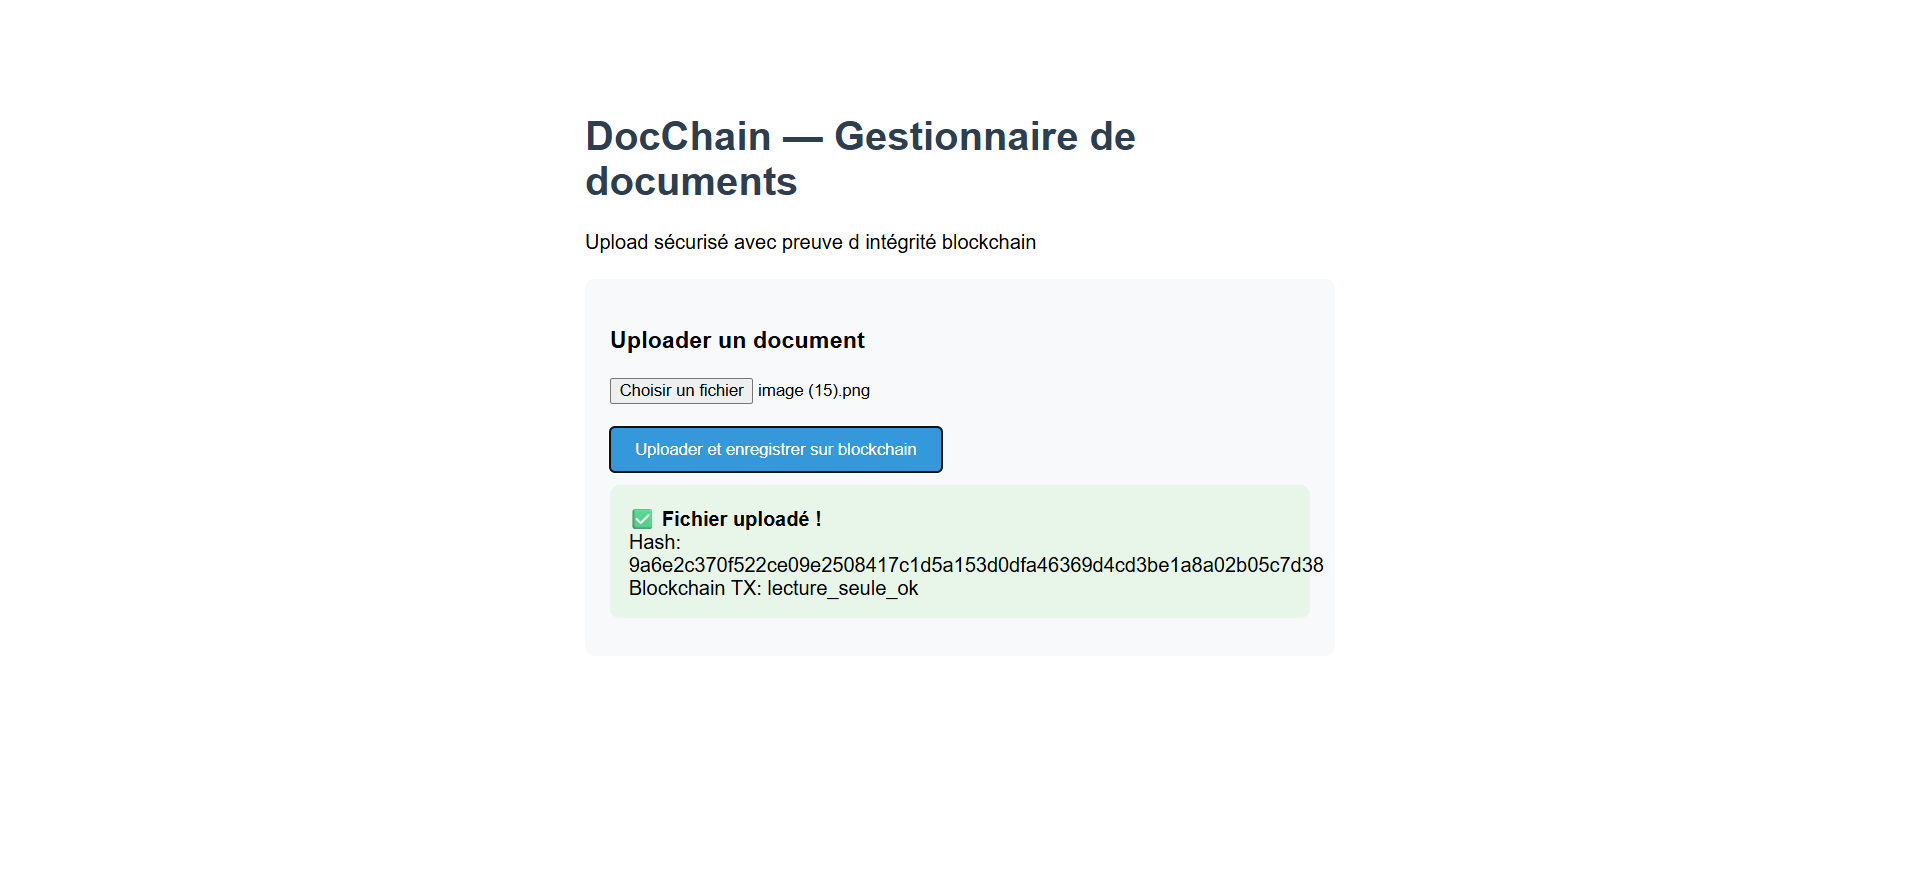
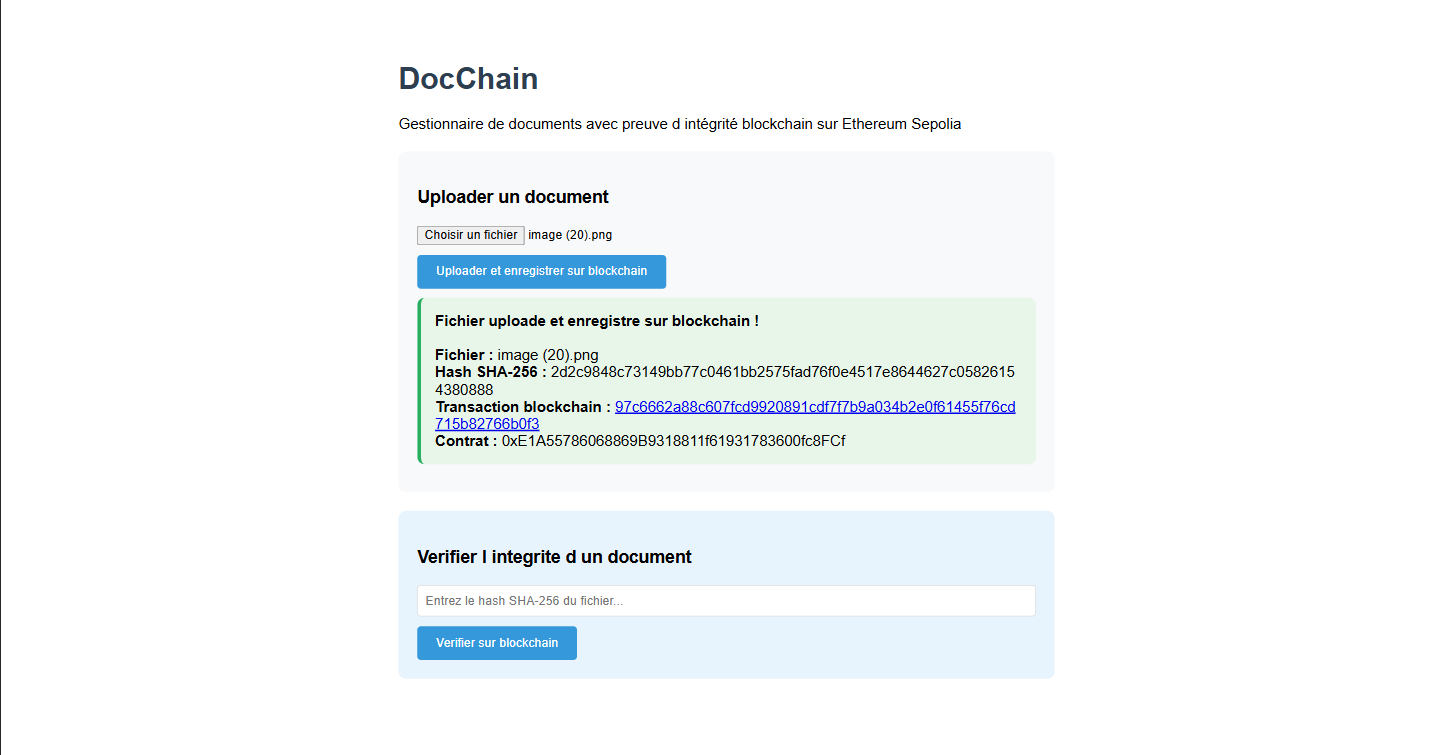
feat: vraie transaction blockchain registerDocument + verification integrite (C26)

Changed region(s): [[0.2787, 0.0914, 0.7123, 0.7007], [0.2787, 0.7921, 0.4336, 0.8834], [0.2787, 0.7311, 0.4955, 0.7616]]

diff --git a/app/app.py b/app/app.py
@@ -16,6 +16,7 @@ CONN_STR         = os.getenv('AZURE_STORAGE_CONNECTION_STRING')
 CONTAINER        = os.getenv('AZURE_CONTAINER_NAME', 'docchain')
 ALCHEMY_URL      = os.getenv('ALCHEMY_URL')
 CONTRACT_ADDRESS = os.getenv('CONTRACT_ADDRESS')
+PRIVATE_KEY      = os.getenv('WALLET_PRIVATE_KEY')
 
 w3 = Web3(Web3.HTTPProvider(ALCHEMY_URL))
 
@@ -26,47 +27,104 @@ contract = w3.eth.contract(
     abi=CONTRACT_ABI
 )
 
+def register_on_blockchain(file_hash: str, filename: str) -> str:
+    try:
+        bytes32_hash = bytes.fromhex(file_hash)
+        account      = w3.eth.account.from_key(PRIVATE_KEY)
+        nonce        = w3.eth.get_transaction_count(account.address)
+        tx = contract.functions.registerDocument(
+            bytes32_hash, filename
+        ).build_transaction({
+            'from'    : account.address,
+            'nonce'   : nonce,
+            'gas'     : 200000,
+            'gasPrice': w3.eth.gas_price,
+            'chainId' : 11155111
+        })
+        signed  = w3.eth.account.sign_transaction(tx, PRIVATE_KEY)
+        tx_hash = w3.eth.send_raw_transaction(signed.raw_transaction)
+        receipt = w3.eth.wait_for_transaction_receipt(tx_hash, timeout=60)
+        return tx_hash.hex()
+    except Exception as e:
+        print(f"Blockchain error: {e}")
+        return None
+
 HTML = '''
 <!DOCTYPE html>
 <html>
 <head>
     <title>DocChain</title>
     <style>
-        body { font-family: Arial, sans-serif; max-width: 600px; margin: 50px auto; padding: 20px; }
+        body { font-family: Arial, sans-serif; max-width: 700px; margin: 50px auto; padding: 20px; }
         h1 { color: #2c3e50; }
         .upload-form { background: #f8f9fa; padding: 20px; border-radius: 8px; margin: 20px 0; }
-        button { background: #3498db; color: white; padding: 10px 20px; border: none; border-radius: 4px; cursor: pointer; }
+        .verify-form { background: #e8f4fd; padding: 20px; border-radius: 8px; margin: 20px 0; }
+        button { background: #3498db; color: white; padding: 10px 20px; border: none; border-radius: 4px; cursor: pointer; margin-top: 10px; }
         button:hover { background: #2980b9; }
-        .result { background: #e8f5e9; padding: 15px; border-radius: 8px; margin: 10px 0; display: none; }
+        .result { padding: 15px; border-radius: 8px; margin: 10px 0; display: none; word-break: break-all; }
+        .success { background: #e8f5e9; border-left: 4px solid #27ae60; }
+        .error { background: #ffebee; border-left: 4px solid #e74c3c; }
+        input[type=text] { width: 100%; padding: 8px; border: 1px solid #ddd; border-radius: 4px; box-sizing: border-box; }
     </style>
 </head>
 <body>
-    <h1>DocChain — Gestionnaire de documents</h1>
-    <p>Upload sécurisé avec preuve d intégrité blockchain</p>
+    <h1>DocChain</h1>
+    <p>Gestionnaire de documents avec preuve d intégrité blockchain sur Ethereum Sepolia</p>
     <div class="upload-form">
         <h3>Uploader un document</h3>
         <form id="uploadForm">
-            <input type="file" id="fileInput" name="file" required><br><br>
+            <input type="file" id="fileInput" name="file" required><br>
             <button type="submit">Uploader et enregistrer sur blockchain</button>
         </form>
-        <div class="result" id="result"></div>
+        <div class="result" id="uploadResult"></div>
+    </div>
+    <div class="verify-form">
+        <h3>Verifier l integrite d un document</h3>
+        <input type="text" id="hashInput" placeholder="Entrez le hash SHA-256 du fichier...">
+        <button onclick="verifyDoc()">Verifier sur blockchain</button>
+        <div class="result" id="verifyResult"></div>
     </div>
     <script>
         document.getElementById("uploadForm").onsubmit = async function(e) {
             e.preventDefault();
+            const r = document.getElementById("uploadResult");
+            r.style.display = "block";
+            r.className = "result";
+            r.innerHTML = "En cours - upload et enregistrement sur blockchain...";
             const formData = new FormData();
             formData.append("file", document.getElementById("fileInput").files[0]);
-            const res = await fetch("/upload", { method: "POST", body: formData });
+            const res  = await fetch("/upload", { method: "POST", body: formData });
             const data = await res.json();
-            const r = document.getElementById("result");
-            r.style.display = "block";
             if (data.status === "uploaded") {
-                r.innerHTML = "<b>✅ Fichier uploadé !</b><br>Hash: " + data.hash + "<br>Blockchain TX: " + (data.tx_hash || "en cours...");
+                r.className = "result success";
+                r.innerHTML = "<b>Fichier uploade et enregistre sur blockchain !</b><br><br>" +
+                    "<b>Fichier :</b> " + data.filename + "<br>" +
+                    "<b>Hash SHA-256 :</b> " + data.hash + "<br>" +
+                    "<b>Transaction blockchain :</b> <a href='https://sepolia.etherscan.io/tx/" + data.tx_hash + "' target='_blank'>" + data.tx_hash + "</a><br>" +
+                    "<b>Contrat :</b> " + data.blockchain;
             } else {
-                r.innerHTML = "<b>❌ Erreur:</b> " + data.error;
-                r.style.background = "#ffebee";
+                r.className = "result error";
+                r.innerHTML = "<b>Erreur :</b> " + (data.error || JSON.stringify(data));
             }
         };
+        async function verifyDoc() {
+            const hash = document.getElementById("hashInput").value.trim();
+            const r    = document.getElementById("verifyResult");
+            r.style.display = "block";
+            r.innerHTML = "Verification en cours...";
+            const res  = await fetch("/verify/" + hash);
+            const data = await res.json();
+            if (data.exists) {
+                r.className = "result success";
+                r.innerHTML = "<b>Document authentifie !</b><br>" +
+                    "<b>Uploader :</b> " + data.uploader + "<br>" +
+                    "<b>Fichier :</b> " + data.filename + "<br>" +
+                    "<b>Date :</b> " + new Date(data.timestamp * 1000).toLocaleString();
+            } else {
+                r.className = "result error";
+                r.innerHTML = "<b>Document non trouve dans la blockchain</b>";
+            }
+        }
     </script>
 </body>
 </html>
@@ -82,11 +140,9 @@ def upload():
         if 'file' not in request.files:
             ERRORS.inc()
             return jsonify({'error': 'Aucun fichier'}), 400
-        f = request.files['file']
+        f       = request.files['file']
         content = f.read()
         file_hash = hashlib.sha256(content).hexdigest()
-        bytes32_hash = bytes.fromhex(file_hash)
-
         try:
             client = BlobServiceClient.from_connection_string(CONN_STR)
             blob   = client.get_blob_client(container=CONTAINER, blob=f.filename)
@@ -94,20 +150,13 @@ def upload():
             UPLOADS.inc()
         except Exception as e:
             ERRORS.inc()
-            return jsonify({'error': str(e)}), 500
-
-        tx_hash = None
-        try:
-            count = contract.functions.verifyDocument(bytes32_hash).call()
-            tx_hash = "lecture_seule_ok"
-        except Exception as e:
-            pass
-
+            return jsonify({'error': f'Erreur Azure Storage: {str(e)}'}), 500
+        tx_hash = register_on_blockchain(file_hash, f.filename)
         return jsonify({
-            'hash': file_hash,
-            'filename': f.filename,
-            'status': 'uploaded',
-            'tx_hash': tx_hash,
+            'hash'      : file_hash,
+            'filename'  : f.filename,
+            'status'    : 'uploaded',
+            'tx_hash'   : tx_hash,
             'blockchain': CONTRACT_ADDRESS
         })
 
@@ -117,12 +166,13 @@ def verify(file_hash):
         bytes32_hash = bytes.fromhex(file_hash)
         result = contract.functions.verifyDocument(bytes32_hash).call()
         return jsonify({
-            'exists': result[0],
-            'uploader': result[1],
+            'exists'   : result[0],
+            'uploader' : result[1],
             'timestamp': result[2],
-            'filename': result[3]
+            'filename' : result[3]
         })
     except Exception as e:
+        ERRORS.inc()
         return jsonify({'error': str(e)}), 500
 
 @app.route('/metrics')
@@ -131,7 +181,7 @@ def metrics():
 
 @app.route('/alert', methods=['POST'])
 def alert():
-    print(f"Alerte Grafana reçue: {request.json}")
+    print(f"Alerte Grafana recue: {request.json}")
     return jsonify({'status': 'ok'}), 200
 
 if __name__ == '__main__':